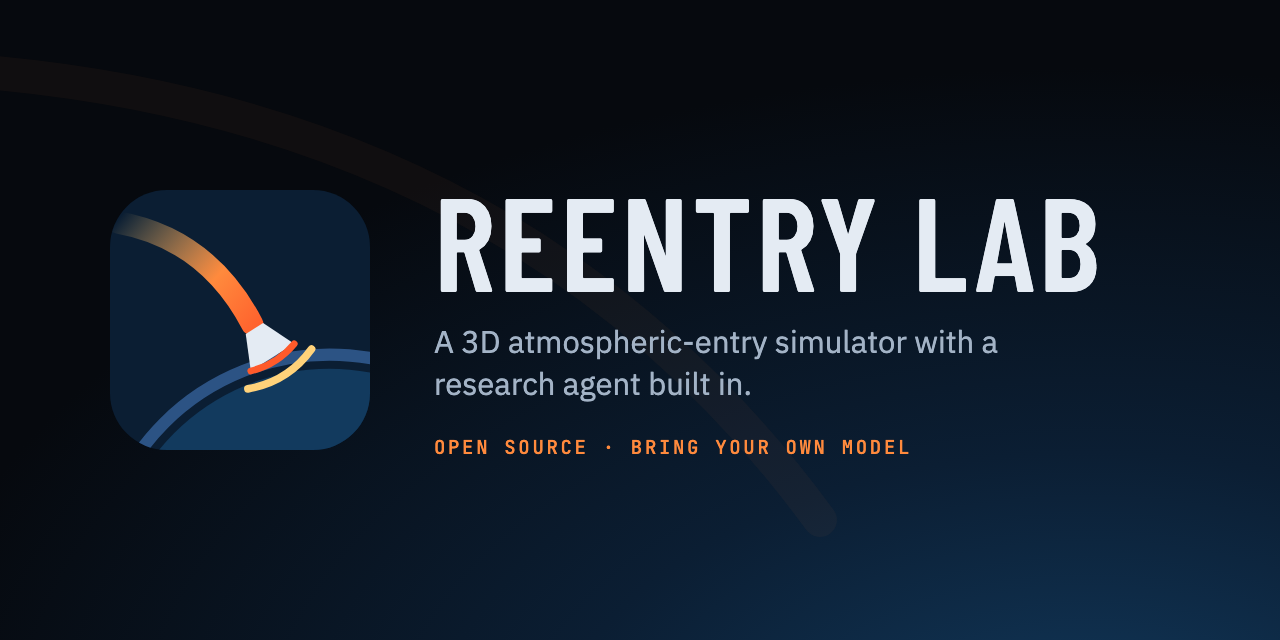
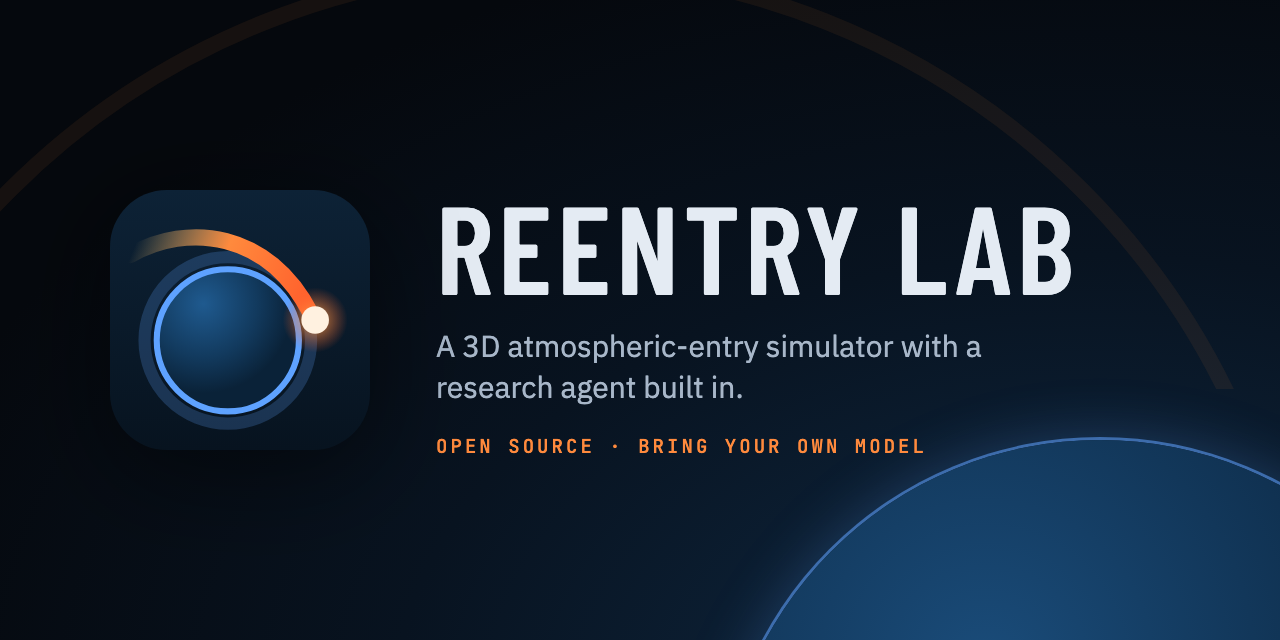
New brand mark: a vehicle at the end of its entry arc over the planet
Rebuilds the logo, favicon, home-screen icon, 512 px logo and social
preview around the mark from the redesign mockup. Adds a frameless
version (brand/mark.svg, served as /mark.svg) for the app's top bar.
Wordmark and colours are unchanged.

diff --git a/src/styles.css b/src/styles.css
@@ -101,7 +101,7 @@ svg { fill: none; stroke: currentColor; stroke-width: 1.8; stroke-linecap: round
 /* ---------- top bar ---------- */
 .topbar { display: flex; align-items: center; gap: 14px; padding: 0 10px 0 16px; min-width: 0; }
 .brand { display: flex; align-items: center; gap: 9px; white-space: nowrap; }
-.brand-mark { width: 24px; height: 24px; flex: none; }
+.brand-mark { width: 28px; height: 26px; flex: none; }
 .brand-name { font: 600 21px/1 var(--font-display); letter-spacing: 0.05em; text-transform: uppercase; }
 .brand-sub { font: 500 10.5px/1 var(--font-mono); color: var(--muted); letter-spacing: 0.1em; text-transform: uppercase; }
 .preset-btn { display: flex; align-items: center; gap: 10px; height: 44px; padding: 0 12px 0 5px; min-width: 260px; max-width: 320px; border-radius: 12px; border: 1px solid rgba(255,255,255,.12); background: rgba(255,255,255,.05); text-align: left; cursor: pointer; }

diff --git a/index.html b/index.html
@@ -17,7 +17,7 @@
 
     <header class="topbar glass">
       <div class="brand">
-        <img class="brand-mark" src="/favicon.svg" width="24" height="24" alt="">
+        <img class="brand-mark" src="/mark.svg" width="28" height="26" alt="">
         <span class="brand-name">Reentry Lab</span>
         <span class="brand-sub">entry simulator</span>
       </div>

diff --git a/brand/README.md b/brand/README.md
@@ -3,19 +3,20 @@
 | File | Use |
 | --- | --- |
 | `logo.svg` | The mark, for anything 48 px and up (README, docs, slides) |
-| `logo-small.svg` | Small-size version for 16–48 px: thicker trail, larger capsule. Also served as `public/favicon.svg` |
+| `logo-small.svg` | Small-size version for 16–48 px: bigger planet, thicker arc, larger vehicle. Also served as `public/favicon.svg` |
+| `mark.svg` | The mark without its tile, for dark backgrounds that already have one. Served as `public/mark.svg` for the app's top bar |
 | `logo-512.png` | Upload where an app logo is asked for, such as the GitHub OAuth app |
 | `social-preview.png` | GitHub repo social preview (1280 × 640): Settings → General → Social preview |
 | `../public/apple-touch-icon.png` | Home-screen icon (180 px, square; iOS rounds the corners) |
 
-The mark is a capsule at the end of its glowing entry trail, heat shield leading and bow shock ahead, above the planet's limb.
+The mark is a vehicle glowing white-hot at the end of its entry arc, coming in over the limb of a planet with a thin blue atmosphere.
 
 The colors come from the app (`src/styles.css`):
 - navy `#0b1e33`
 - planet `#123a5e`
 - atmosphere `#5ea2ff`
 - plasma `#ff8a3d` through `#ff5a2a`
-- shock `#ffd27a`
-- capsule `#e4ebf3`
+- glow `#ffd27a`
+- vehicle `#fff1e0`
 
 The wordmark is Barlow Condensed 600, upper case, with 0.04 em tracking.
